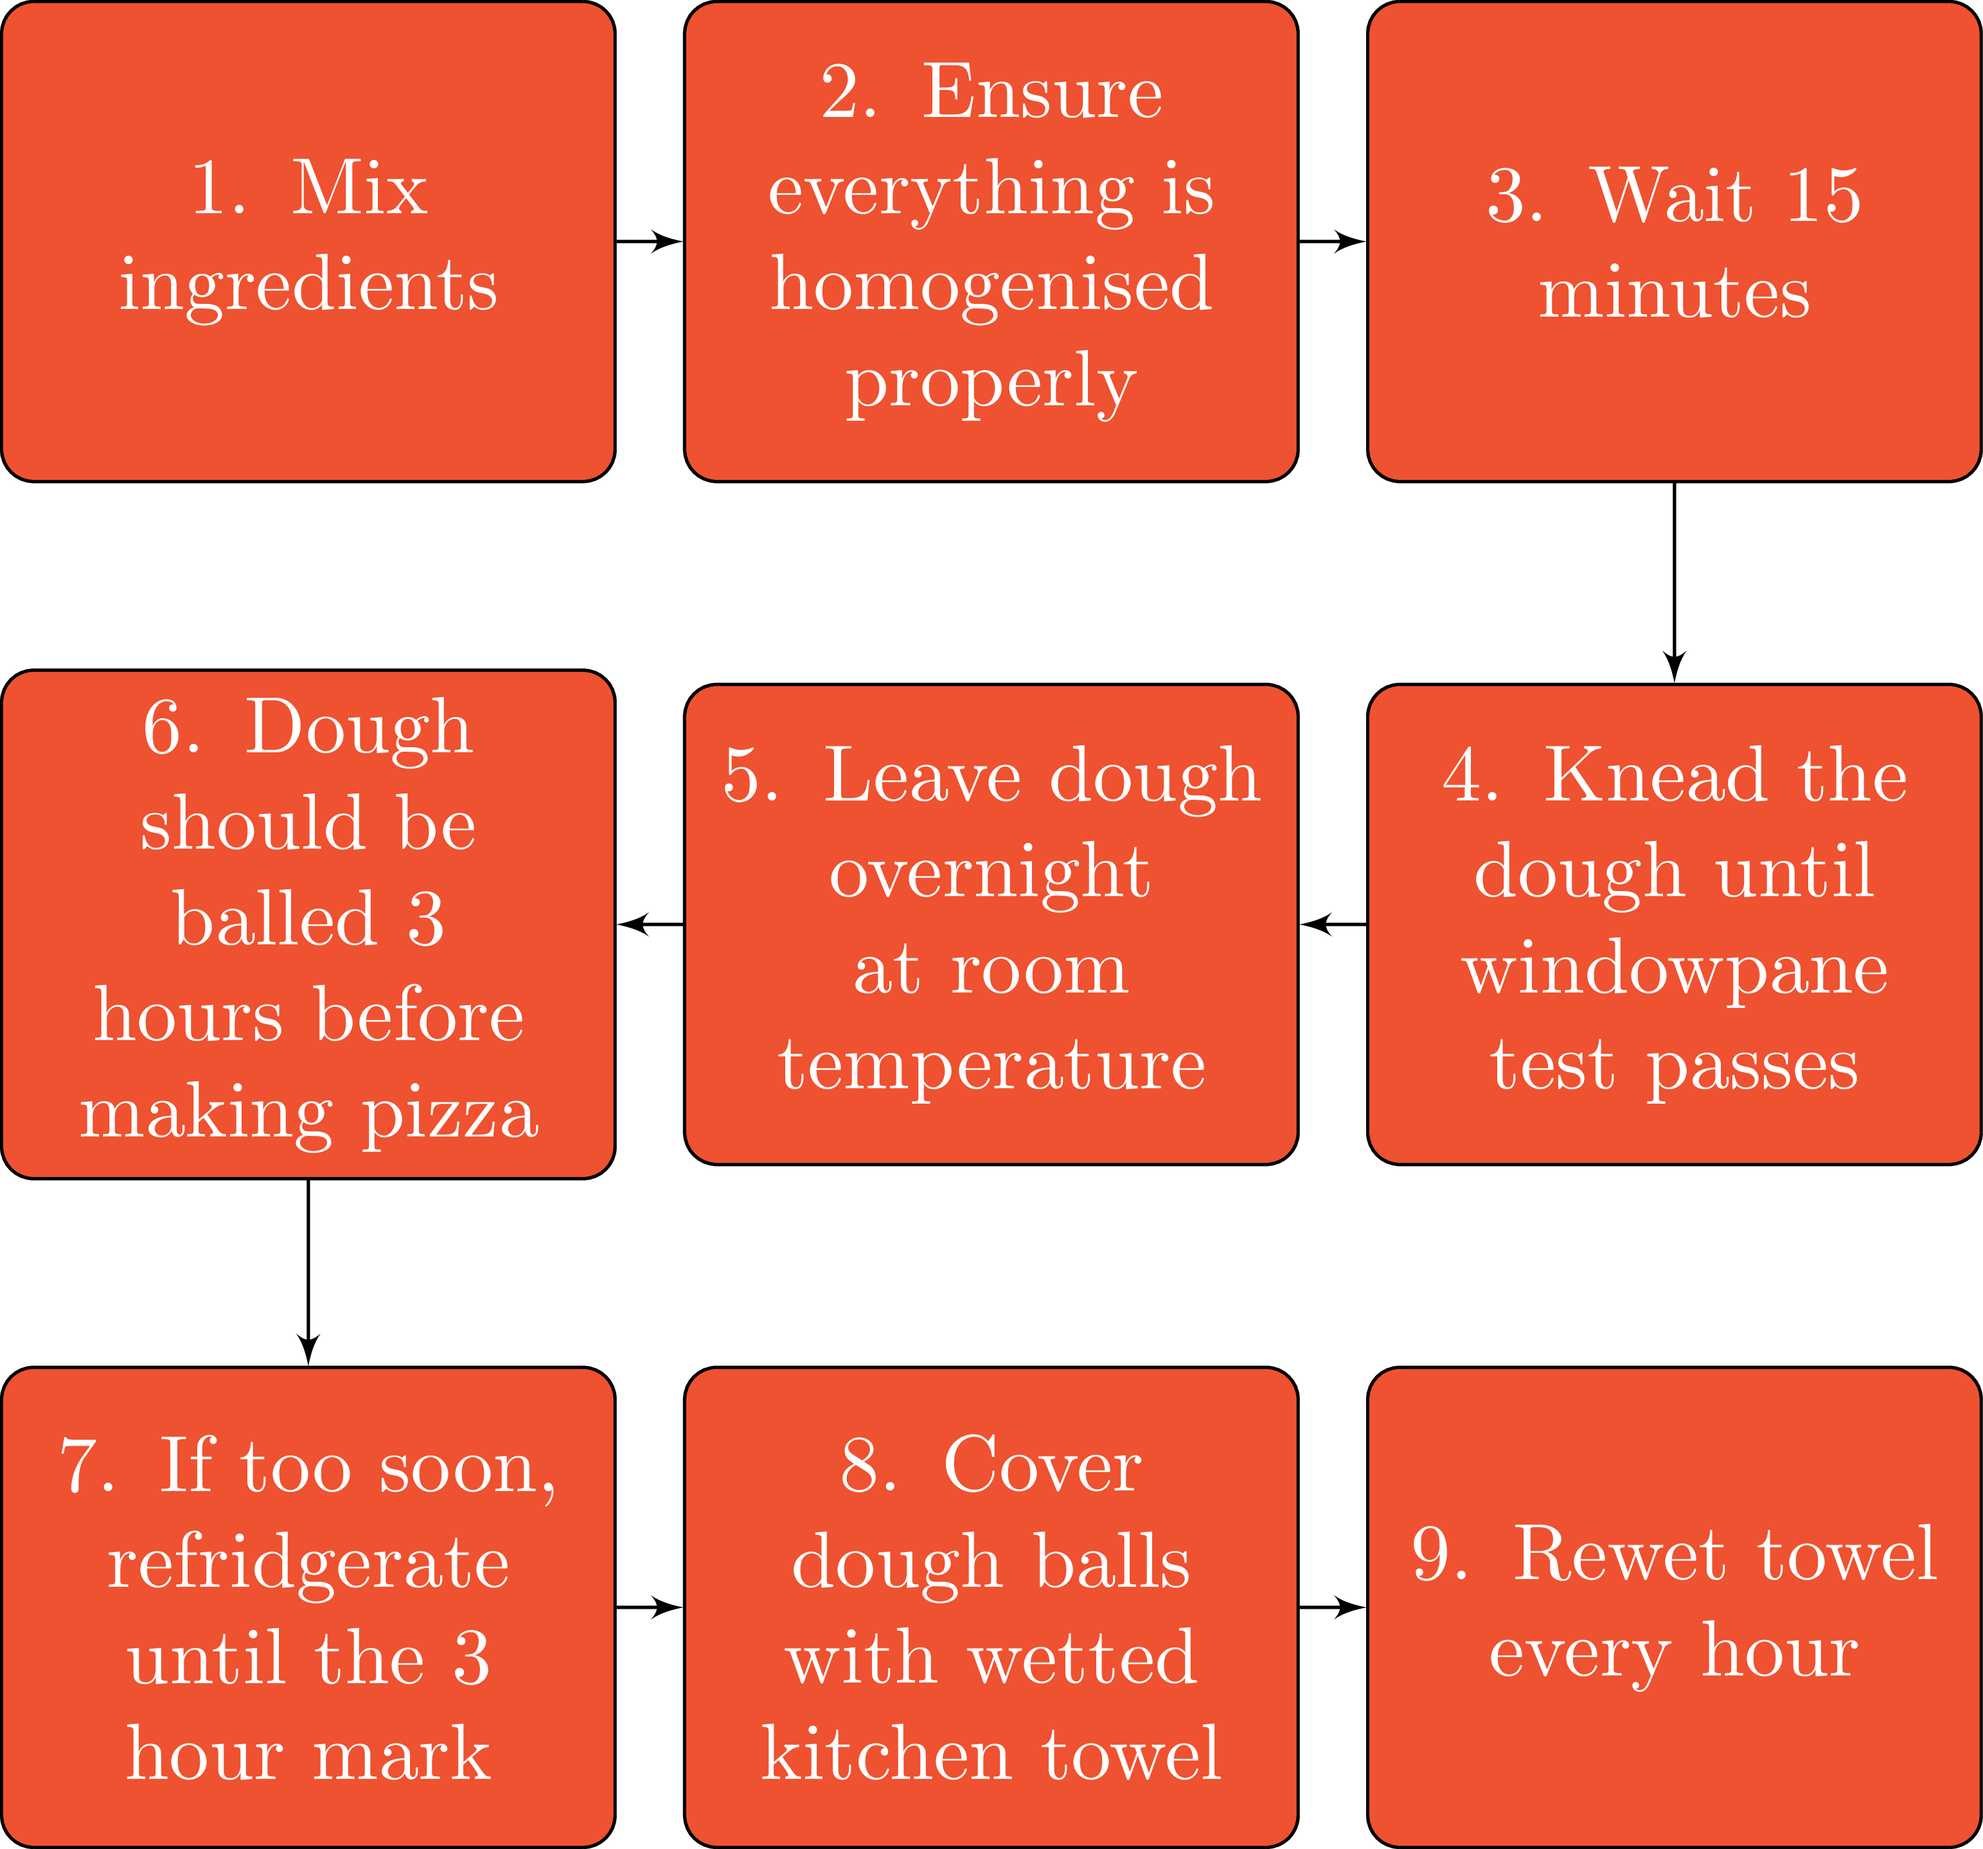
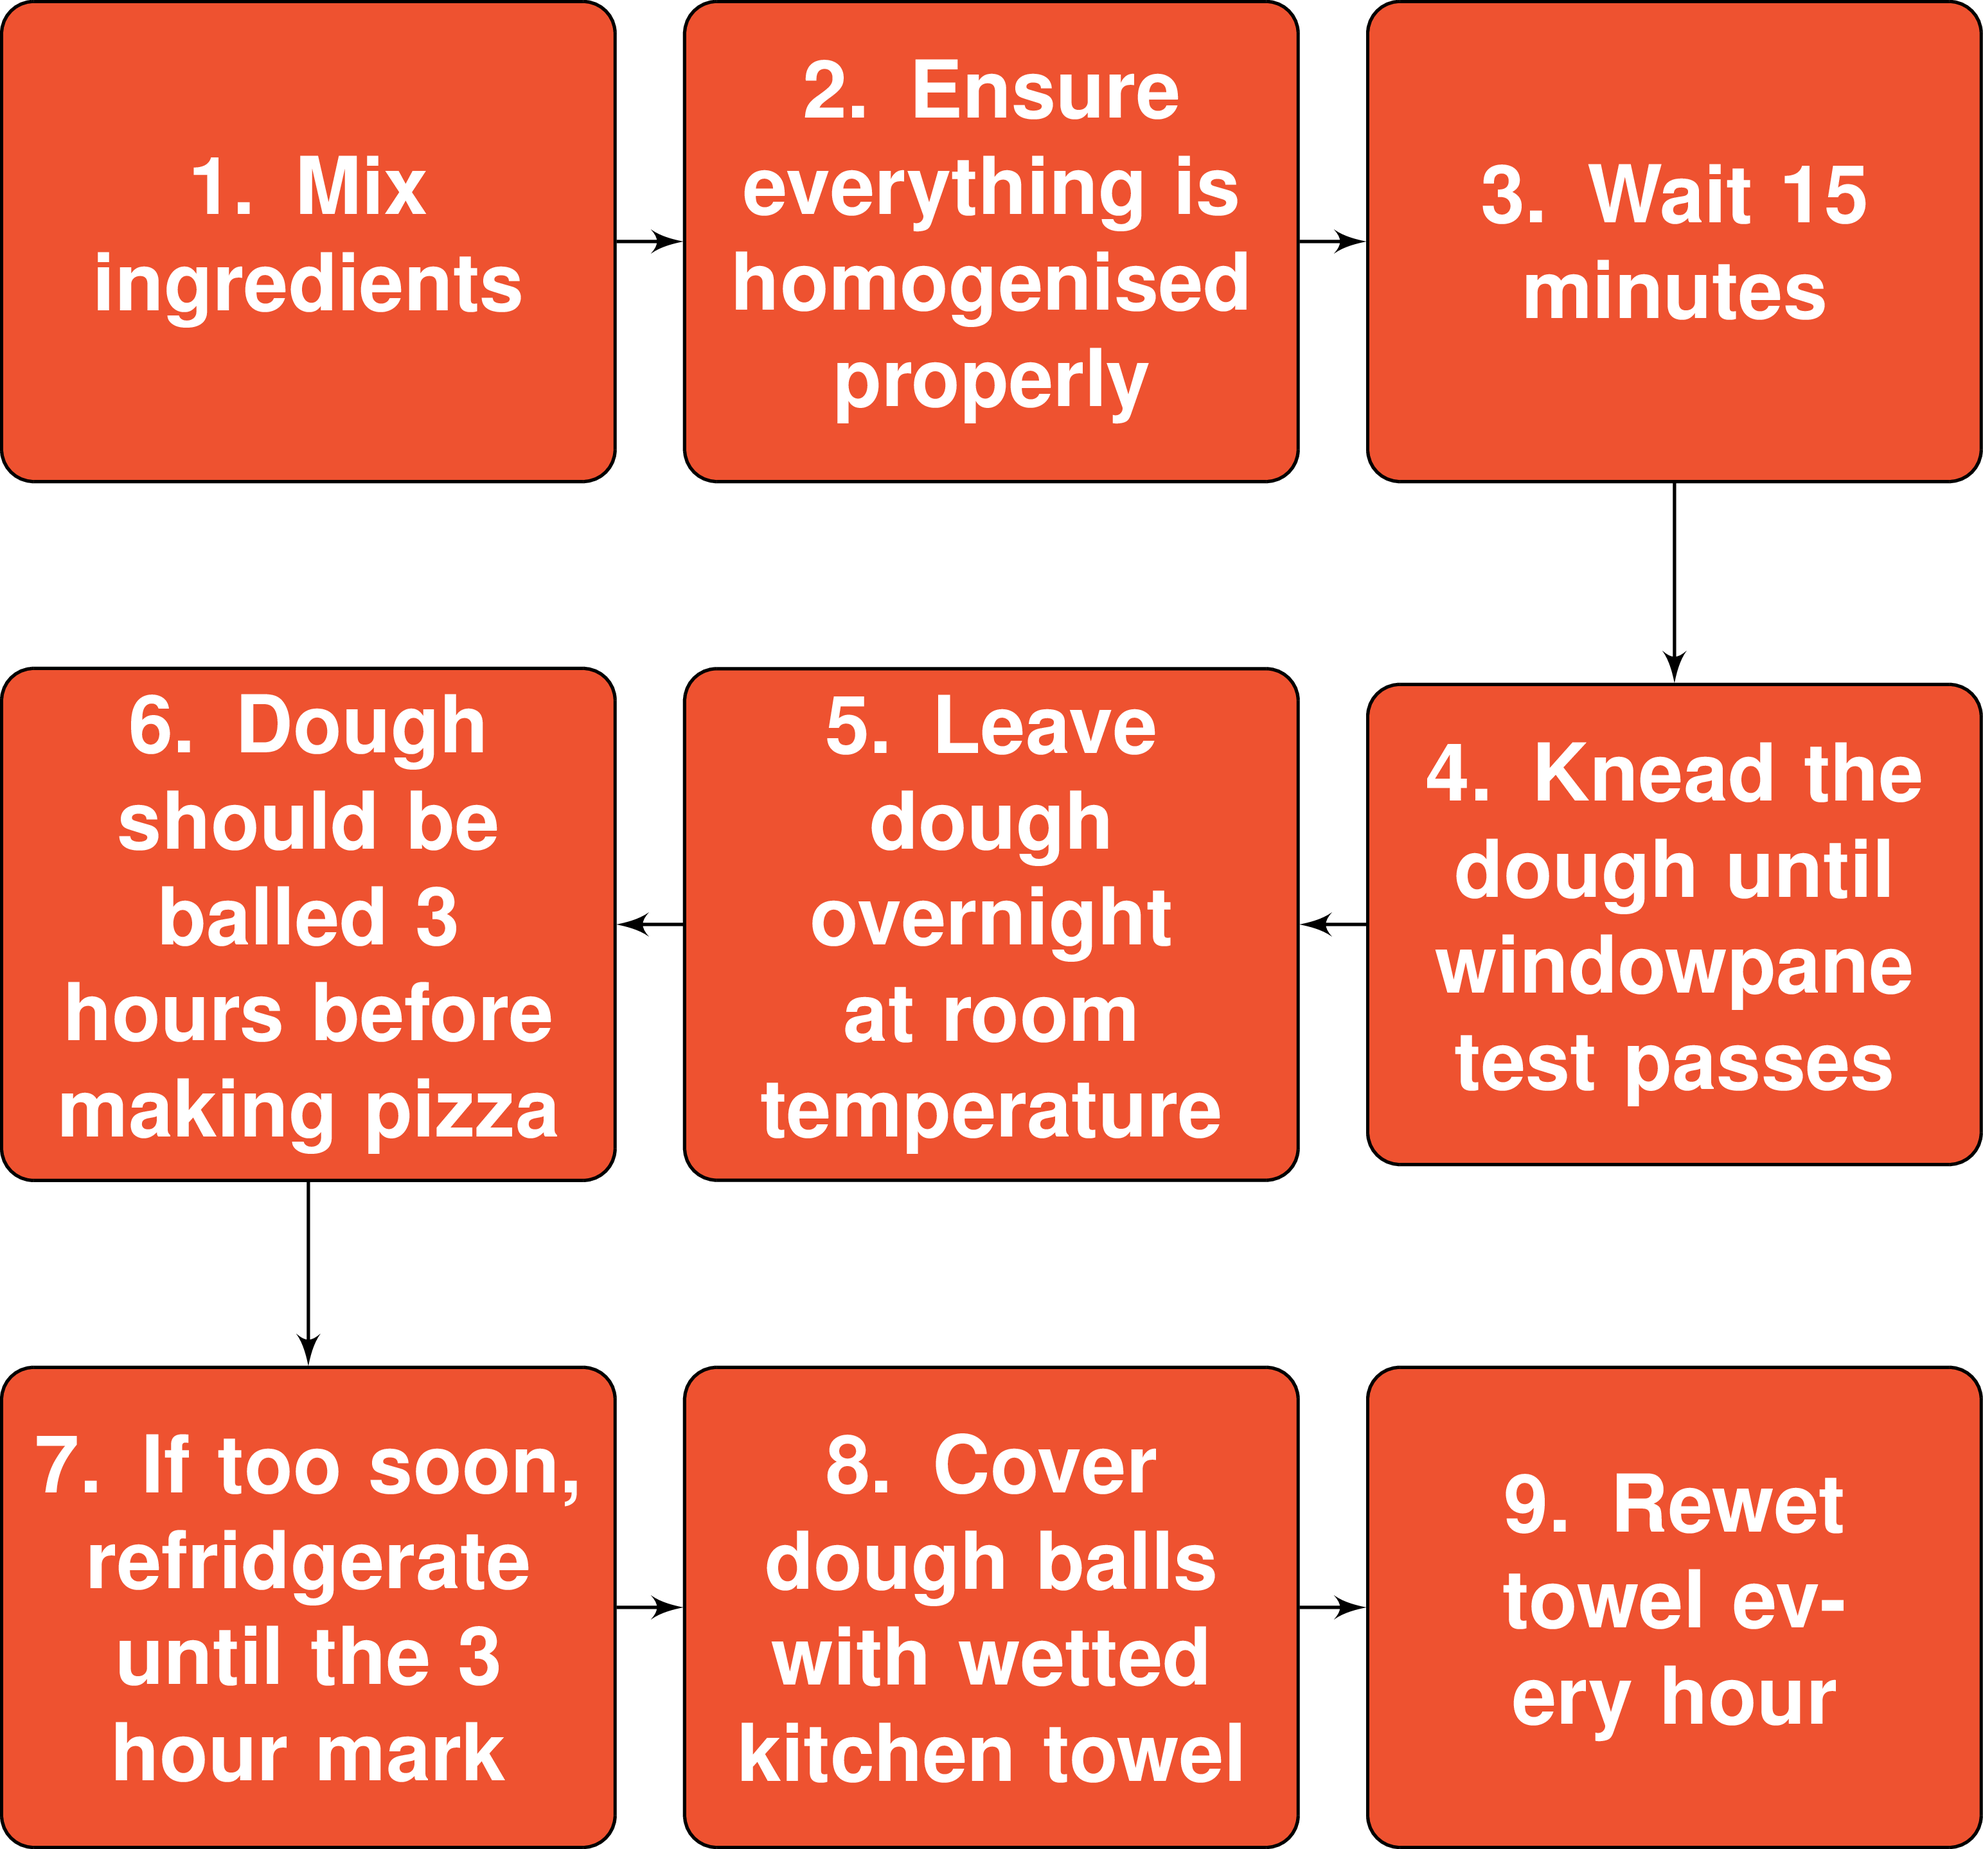
Make text bold

diff --git a/flowchart/chart.tex b/flowchart/chart.tex
@@ -1,10 +1,14 @@
 \documentclass[tikz]{standalone}
 \usepackage{tikz}
+\usepackage{helvet}
+\renewcommand{\familydefault}{\sfdefault}
+
 
 \definecolor{pizzared}{RGB}{238, 82, 48}
 \usetikzlibrary{shapes,arrows}
 \tikzstyle{block} = [rectangle, draw, fill=pizzared,  text=white,
-    text width=7em, text centered, rounded corners, minimum height=6em]
+    text width=7em, text centered, rounded corners, minimum height=6em,
+    font=\bfseries]
 \tikzstyle{line} = [draw, -latex']
 
 \begin{document}
